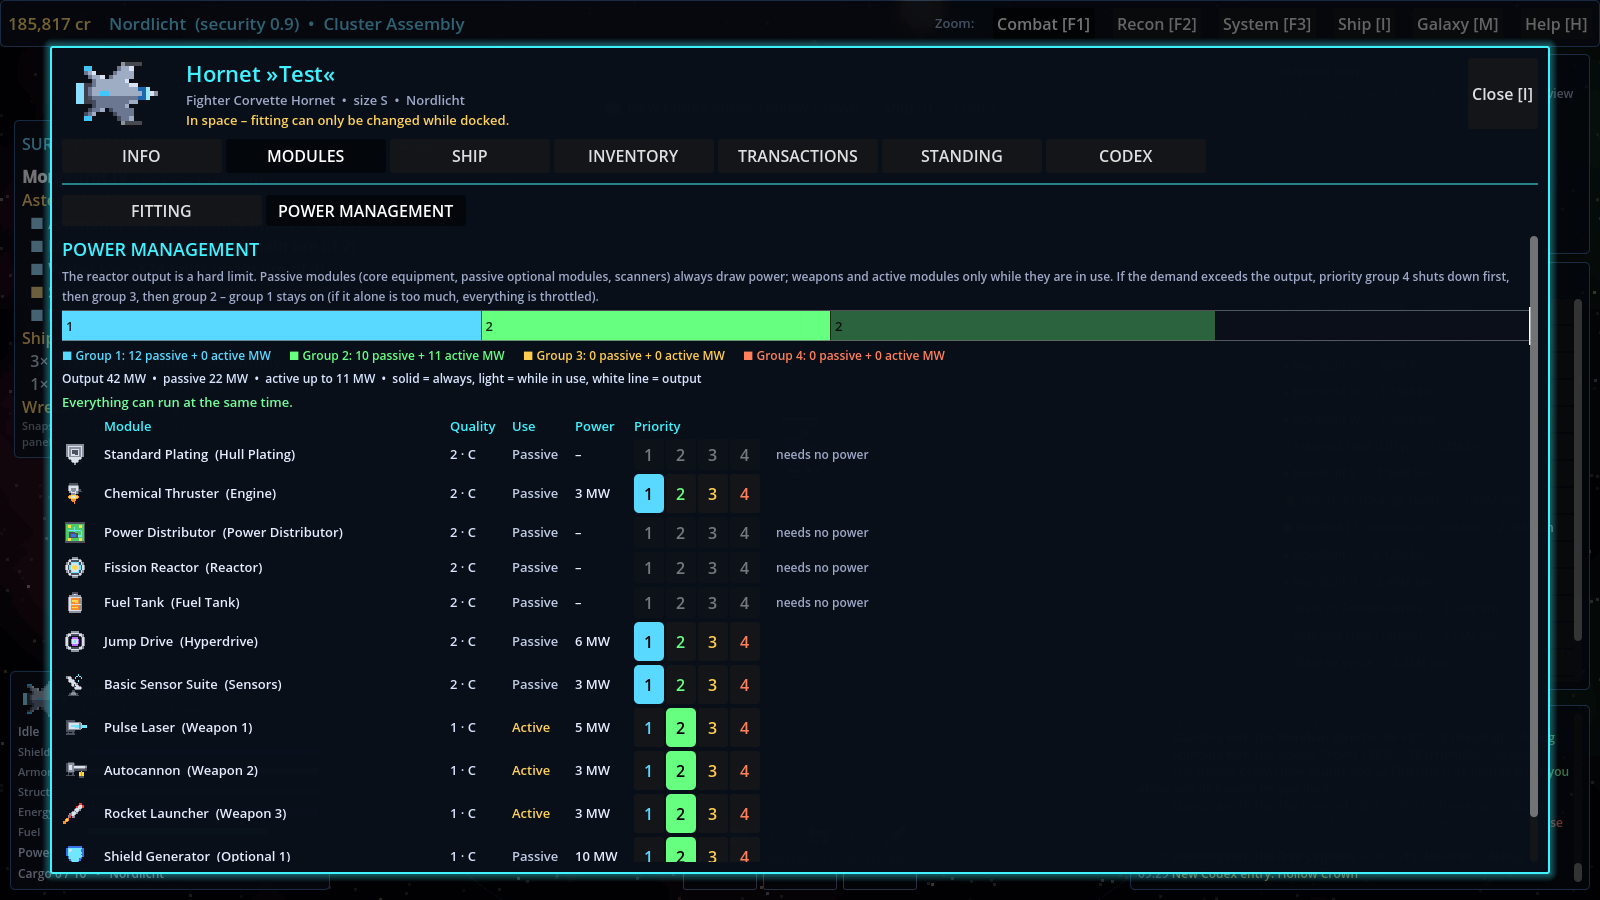
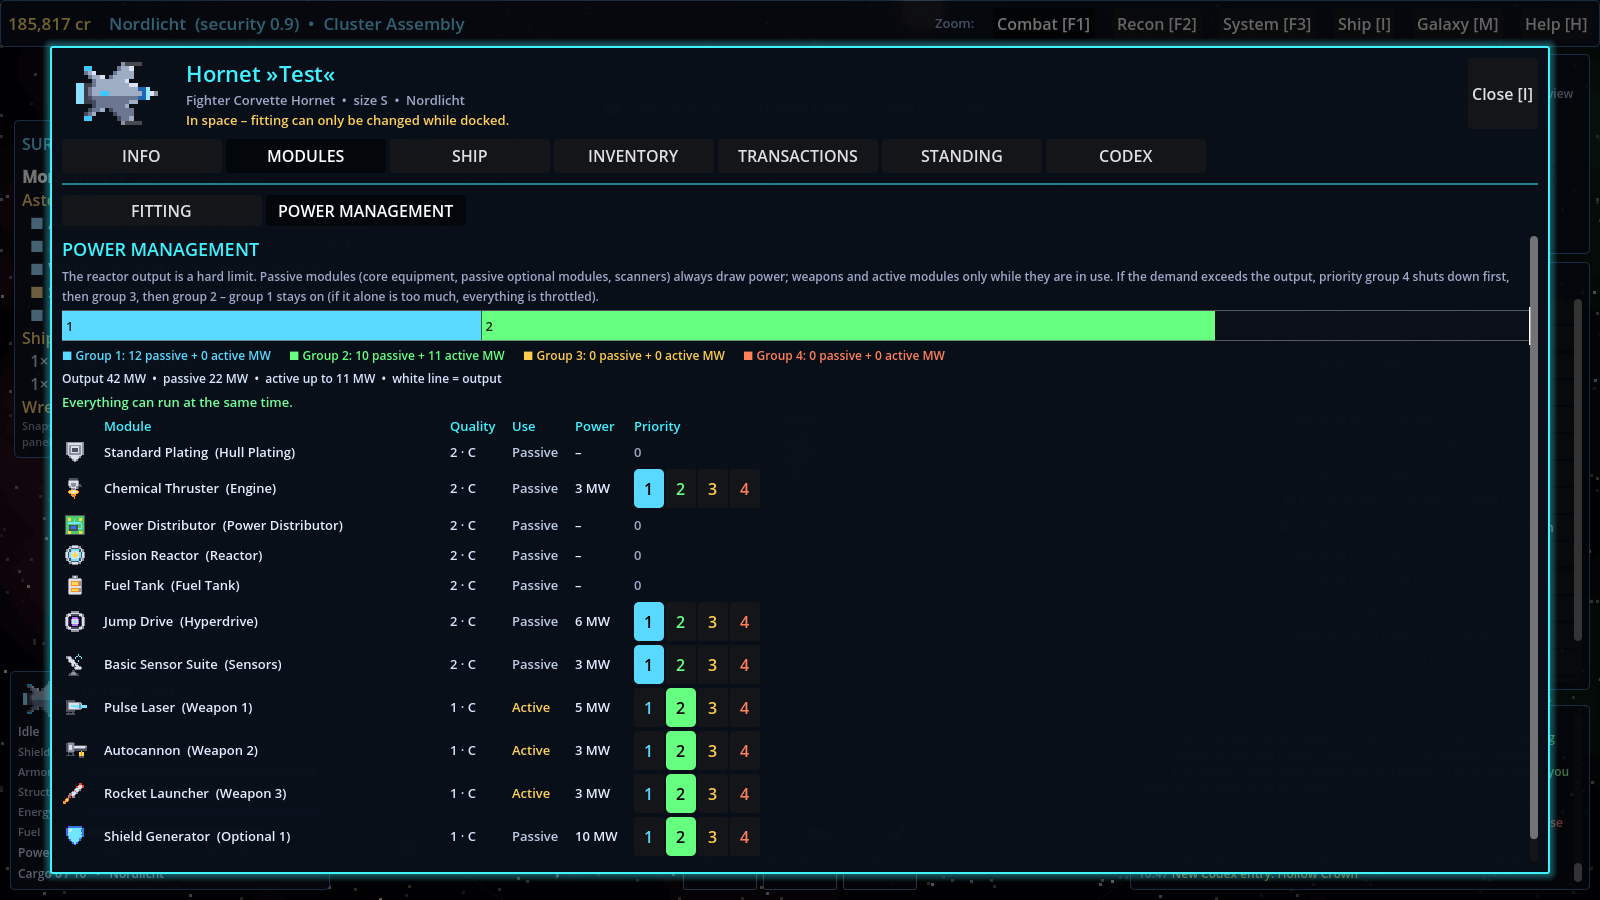
alpha 0.4.21.2: power bar one block per group, group 0 for modules without power

diff --git a/Roadmap.md b/Roadmap.md
@@ -17,7 +17,7 @@ Sternenfront ist ein Einzelspieler-Spiel mit zuschaltbarem Koop – wie Valheim 
 
 ## Aktueller Stand
 
-Das Spiel ist ein umfangreicher Einzelspieler-Prototyp in Godot 4.3. Phase 0 und Phase 0.5 Teil 1 bis 3 sind abgeschlossen; Teil 4 (Module and Internal Ship Parts Rework) läuft – Pakete 19 bis 21 fertig. Netzwerk fehlt noch. Version alpha 0.4.21.1. Stand 5. November 2026.
+Das Spiel ist ein umfangreicher Einzelspieler-Prototyp in Godot 4.3. Phase 0 und Phase 0.5 Teil 1 bis 3 sind abgeschlossen; Teil 4 (Module and Internal Ship Parts Rework) läuft – Pakete 19 bis 21 fertig. Netzwerk fehlt noch. Version alpha 0.4.21.2. Stand 5. November 2026.
 
 | Bereich | Stand |
 | --- | --- |
@@ -642,6 +642,7 @@ Teil 4 baut das Ausrüstungssystem um: feinere Modulgrößen, Qualitätsstufen, 
 - [x] Passiv (Kern, passive optionale Module, Scanner) zieht immer; aktiv (Waffen, Punktverteidigung, Minenwerfer, Werkzeuge, aktive optionale Module) nur in Benutzung. NPCs: Waffen im Kampf, Strahlen immer, Störsender beim Stören.
 - [x] Prioritätsgruppen 1–4 (Vorgabe: Kern 1, Waffen/Schilde 2, Werkzeuge/aktive 3, Rest 4); bei Überlast schaltet Gruppe 4 ab, dann 3, dann 2; Gruppe 1 bleibt an (nur wenn sie allein zu viel ist, wird gedrosselt). Abgeschaltete passive Module wirken nicht, abgeschaltete aktive bleiben an, aber ohne Wirkung (rote Kachel), bis wieder Strom da ist; Meldungen im Chat.
 - [x] Schiffsmenü → Modules → POWER MANAGEMENT: Balken je Gruppe (passiv kräftig, aktiv hell, weiße Linie = Output), Vorschau „ohne aktive Module“ / „alles an“, Modulliste mit Icon, Name, Größe · Qualität, aktiv/passiv, MW und Prioritätsknöpfen 1–4. HUD-Zeile „Power x / y MW (passive + active)“ mit abgeschalteten Gruppen.
+- [x] Module ohne Stromverbrauch stehen in Gruppe 0 (keine Knöpfe); der Balken zeigt je Gruppe einen zusammenhängenden Block (alpha 0.4.21.2).
 - [x] Prioritäten werden mit dem Schiff gespeichert; alle Standard- und NPC-Ausrüstungen laufen auch mit allem eingeschaltet unter der Grenze.
 
 ### Multi-Fokus (Paket 22)

diff --git a/README.md b/README.md
@@ -79,7 +79,7 @@ lists every archetype loadout.
   effect (e.g. no shield from a shut-down generator), shut-down active modules stay switched on but idle
   (red tile) until there is power again. The chat reports every shutdown and restart.
 - **Ship menu → Modules → POWER MANAGEMENT:** a bar of the output with one segment per group
-  (solid = passive, light = active at most, white line = output), a forecast (idle / everything on)
+  (passive + active at most as one block, white line = output); modules that need no power are in group 0, a forecast (idle / everything on)
   and the list of all modules (icon, name, size · quality, active/passive, MW) with the priority buttons
   1–4. The HUD shows "Power x / y MW (passive + active)" and the groups that are off. Priorities are
   saved with the ship (command `set_priority`).

diff --git a/CHANGELOG.md b/CHANGELOG.md
@@ -3,6 +3,11 @@
 Versions follow **alpha Phase.Teil.Paket.laufende Nummer** (see Roadmap.md → Arbeitsweise & Übergabe).
 Every update gets its own entry, a commit and a git tag `v<version>`.
 
+## alpha 0.4.21.2 – 2026-11-05
+
+- Power bar: one block per priority group (passive and active no longer split).
+- Modules that need no power are in group 0 (no priority buttons, no extra text).
+
 ## alpha 0.4.21.1 – 2026-11-05
 
 **Package 21 – power management.** 446 smoke-test checks pass.
